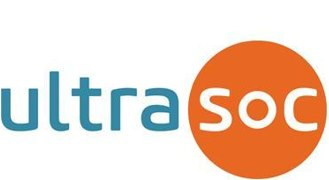
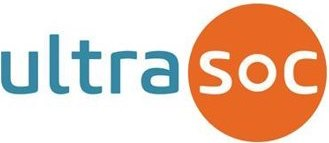
Added DSbD branding and Arm partner

diff --git a/index.html b/index.html
@@ -3,8 +3,8 @@ title: AppControl
 ...
 
 
-<p>  The AppControl project enhances Digital Security By Design for mission-critical Systems-on-Chip. It uses the capabilities provided by the CHERI architecture to enable Design-by-Specification: the Systems-on-Chip has a formal, executable specification (typically created by the system architect), and every software component of the SoC is forced to adhere to this specification. Programs with incompatible specifications cannot run; unspecified run-time behaviour will raise an exception. The practical realisation is through the extension of programming languages to supports expressive specifications and a toolchain which ensures that the specifications are enforced at run time on Capability hardware.
-</p>
+<p>The AppControl project enhances Digital Security By Design (DSbD) for mission-critical Systems-on-Chip. It uses the capabilities provided by the CHERI architecture to enable Design-by-Specification: the Systems-on-Chip has a formal, executable specification (typically created by the system architect), and every software component of the SoC is forced to adhere to this specification. Programs with incompatible specifications cannot run; unspecified run-time behaviour will raise an exception. The practical realisation is through the extension of programming languages to supports expressive specifications and a toolchain which ensures that the specifications are enforced at run time on Capability hardware. Our project was funded by the Digital Security by Design (DSbD) Programme delivered by UKRI to support the DSbD ecosystem.</p>
+
 <h2>The Problem</h2>
 
 <p>With the current state of the art, it is possible to limit the access privileges of a third-party program running on a computer system. The addition of architectural capabilities such as provided by CHERI enable unprecedented fine-grained memory protection and isolation. These mechanisms are however not sufficient to control the behaviour of a program so that it follows the intended specification. For example, if a program performs network access, it is not possible to ensure that the network location accessed is intended by the developer, or the result of a backdoor in the system. In general, this is the case for any system call performed by the program. As a result, malicious programs can e.g. participate in DDoS attacks, or send information about the system to a Command and Control server, etc. It is also the case for library calls, which could perform unspecified actions within the memory space of a process.
@@ -13,7 +13,7 @@ title: AppControl
 
 <h2>The Aim</h2>
 <p>
-The aim of this project is to enhance the provision of Digital Security By Design for mission-critical Systems-on-Chip through Capability hardware-enabled Design-by-Specification. What this means is that the Systems-on-Chip has a formal, executable specification (typically created by the system architect), and every software component of the SoC is forced to adhere to this specification. Programs with incompatible specifications cannot run; unspecified run-time behaviour will raise an exception. For the above example, the specification could govern the network access and also the access to system information. The practical realisation of this aim is through the extension of programming languages to supports expressive specifications and a toolchain which ensures that the specifications are enforced at run time on Capability hardware.
+The aim of this project is to enhance the provision of Digital Security By Design for mission-critical Systems-on-Chip through Capability hardware-enabled Design-by-Specification. What this means is that the Systems-on-Chip has a formal, executable specification (typically created by the system architect), and every software component of the SoC is forced to adhere to this specification. Programs with incompatible specifications cannot run; unspecified run-time behaviour will raise an exception. For the above example, the specification could govern the network access and also the access to system information. The practical realisation of this aim is through the extension of programming languages to supports expressive specifications and a toolchain which ensures that the specifications are enforced at run time on Capability hardware. 
 </p>
 
 <div>

diff --git a/partners.html b/partners.html
@@ -7,27 +7,46 @@ title: Industrial Partners
 
 <div class="container-fluid">
   <div class="jumbotron">
-    <div class="row vcenter">
+          
+
+    <div>
+   
       <div class="col-sm-6">
         <div class="thumbnail">
           <a href="https://www.nasa.gov/">
-            <img class="center-block"
+            <img class="left-block"
                  src="images/nasa-logo.svg"
                  alt="Logo for NASA"
                  height="160"/>
           </a>
         </div>
       </div>
+      <p>&nbsp;</p>
       <div class="col-sm-6">
         <div class="thumbnail">
           <a href="www.ultrasoc.com">
-            <img class="center-block"
+            <img class="block"
                  src="images/ultrasoc.jpg"
                  alt="Logo for UltraSoC Technologies Ltd"
-                 height="160"/>
+                 height="120"/>
           </a>
         </div>
       </div>
+ <p>&nbsp;</p>
+
+       <div class="col-sm-6">
+        <div class="thumbnail">
+          <a href="https://www.arm.com/">
+            <img class="right-block"
+                 src="images/Arm_logo_2017.svg"
+                 alt="Logo for Arm"
+                 height="60"/>
+          </a>
+        </div>
+      </div>
+
     </div>
+ 
   </div>
+
 </div>

diff --git a/templates/default.html b/templates/default.html
@@ -57,7 +57,7 @@
 
     <footer class="footer">
       <div class="container">
-        AppControl is <a href="https://gow.epsrc.ukri.org/NGBOViewGrant.aspx?GrantRef=EP/V000462/1">funded by EPSRC</a> as part of the <a href="https://www.cl.cam.ac.uk/research/security/ctsrd/cheri/dsbd.html">Digital Security by Design</a> call.
+        AppControl is <a href="https://gow.epsrc.ukri.org/NGBOViewGrant.aspx?GrantRef=EP/V000462/1">funded by UKRI-EPSRC</a> as part of the <a href="https://www.cl.cam.ac.uk/research/security/ctsrd/cheri/dsbd.html">Digital Security by Design</a> programme, which aims to foster a DSbD ecosystem.
       </div>
     </footer>
    <!-- Bootstrap core JavaScript

diff --git a/contact.md b/contact.md
@@ -10,4 +10,4 @@ title: Contact
 
 If you are interested in the project and would like to discuss any aspect of it please do get in touch.
 
-For all general enquires please contact [Prof. Wim Vanderbauwhede](http://www.dcs.gla.ac.uk/~wim/) the Principle Investigator.
+For all general enquires please contact [Prof. Wim Vanderbauwhede](http://www.dcs.gla.ac.uk/~wim/) the Principal Investigator.
